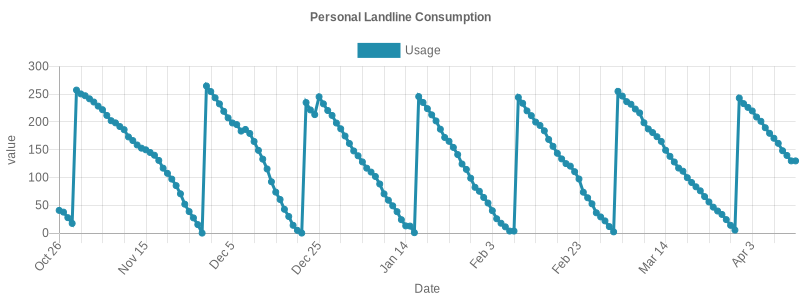
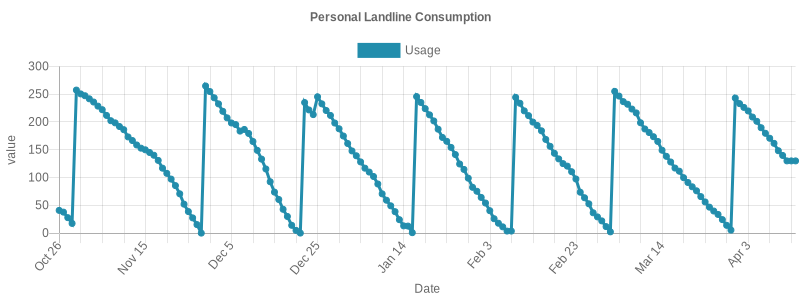
update logs

diff --git a/quota-logs/README.md b/quota-logs/README.md
@@ -169,3 +169,4 @@
 ## Thu Apr 11 2024 00:35:18 GMT+0200|139.76/250
 ## Fri Apr 12 2024 00:35:17 GMT+0200|129.95/250
 ## Sat Apr 13 2024 00:35:51 GMT+0200|129.95/250
+## Sun Apr 14 2024 00:34:55 GMT+0200|129.95/250
